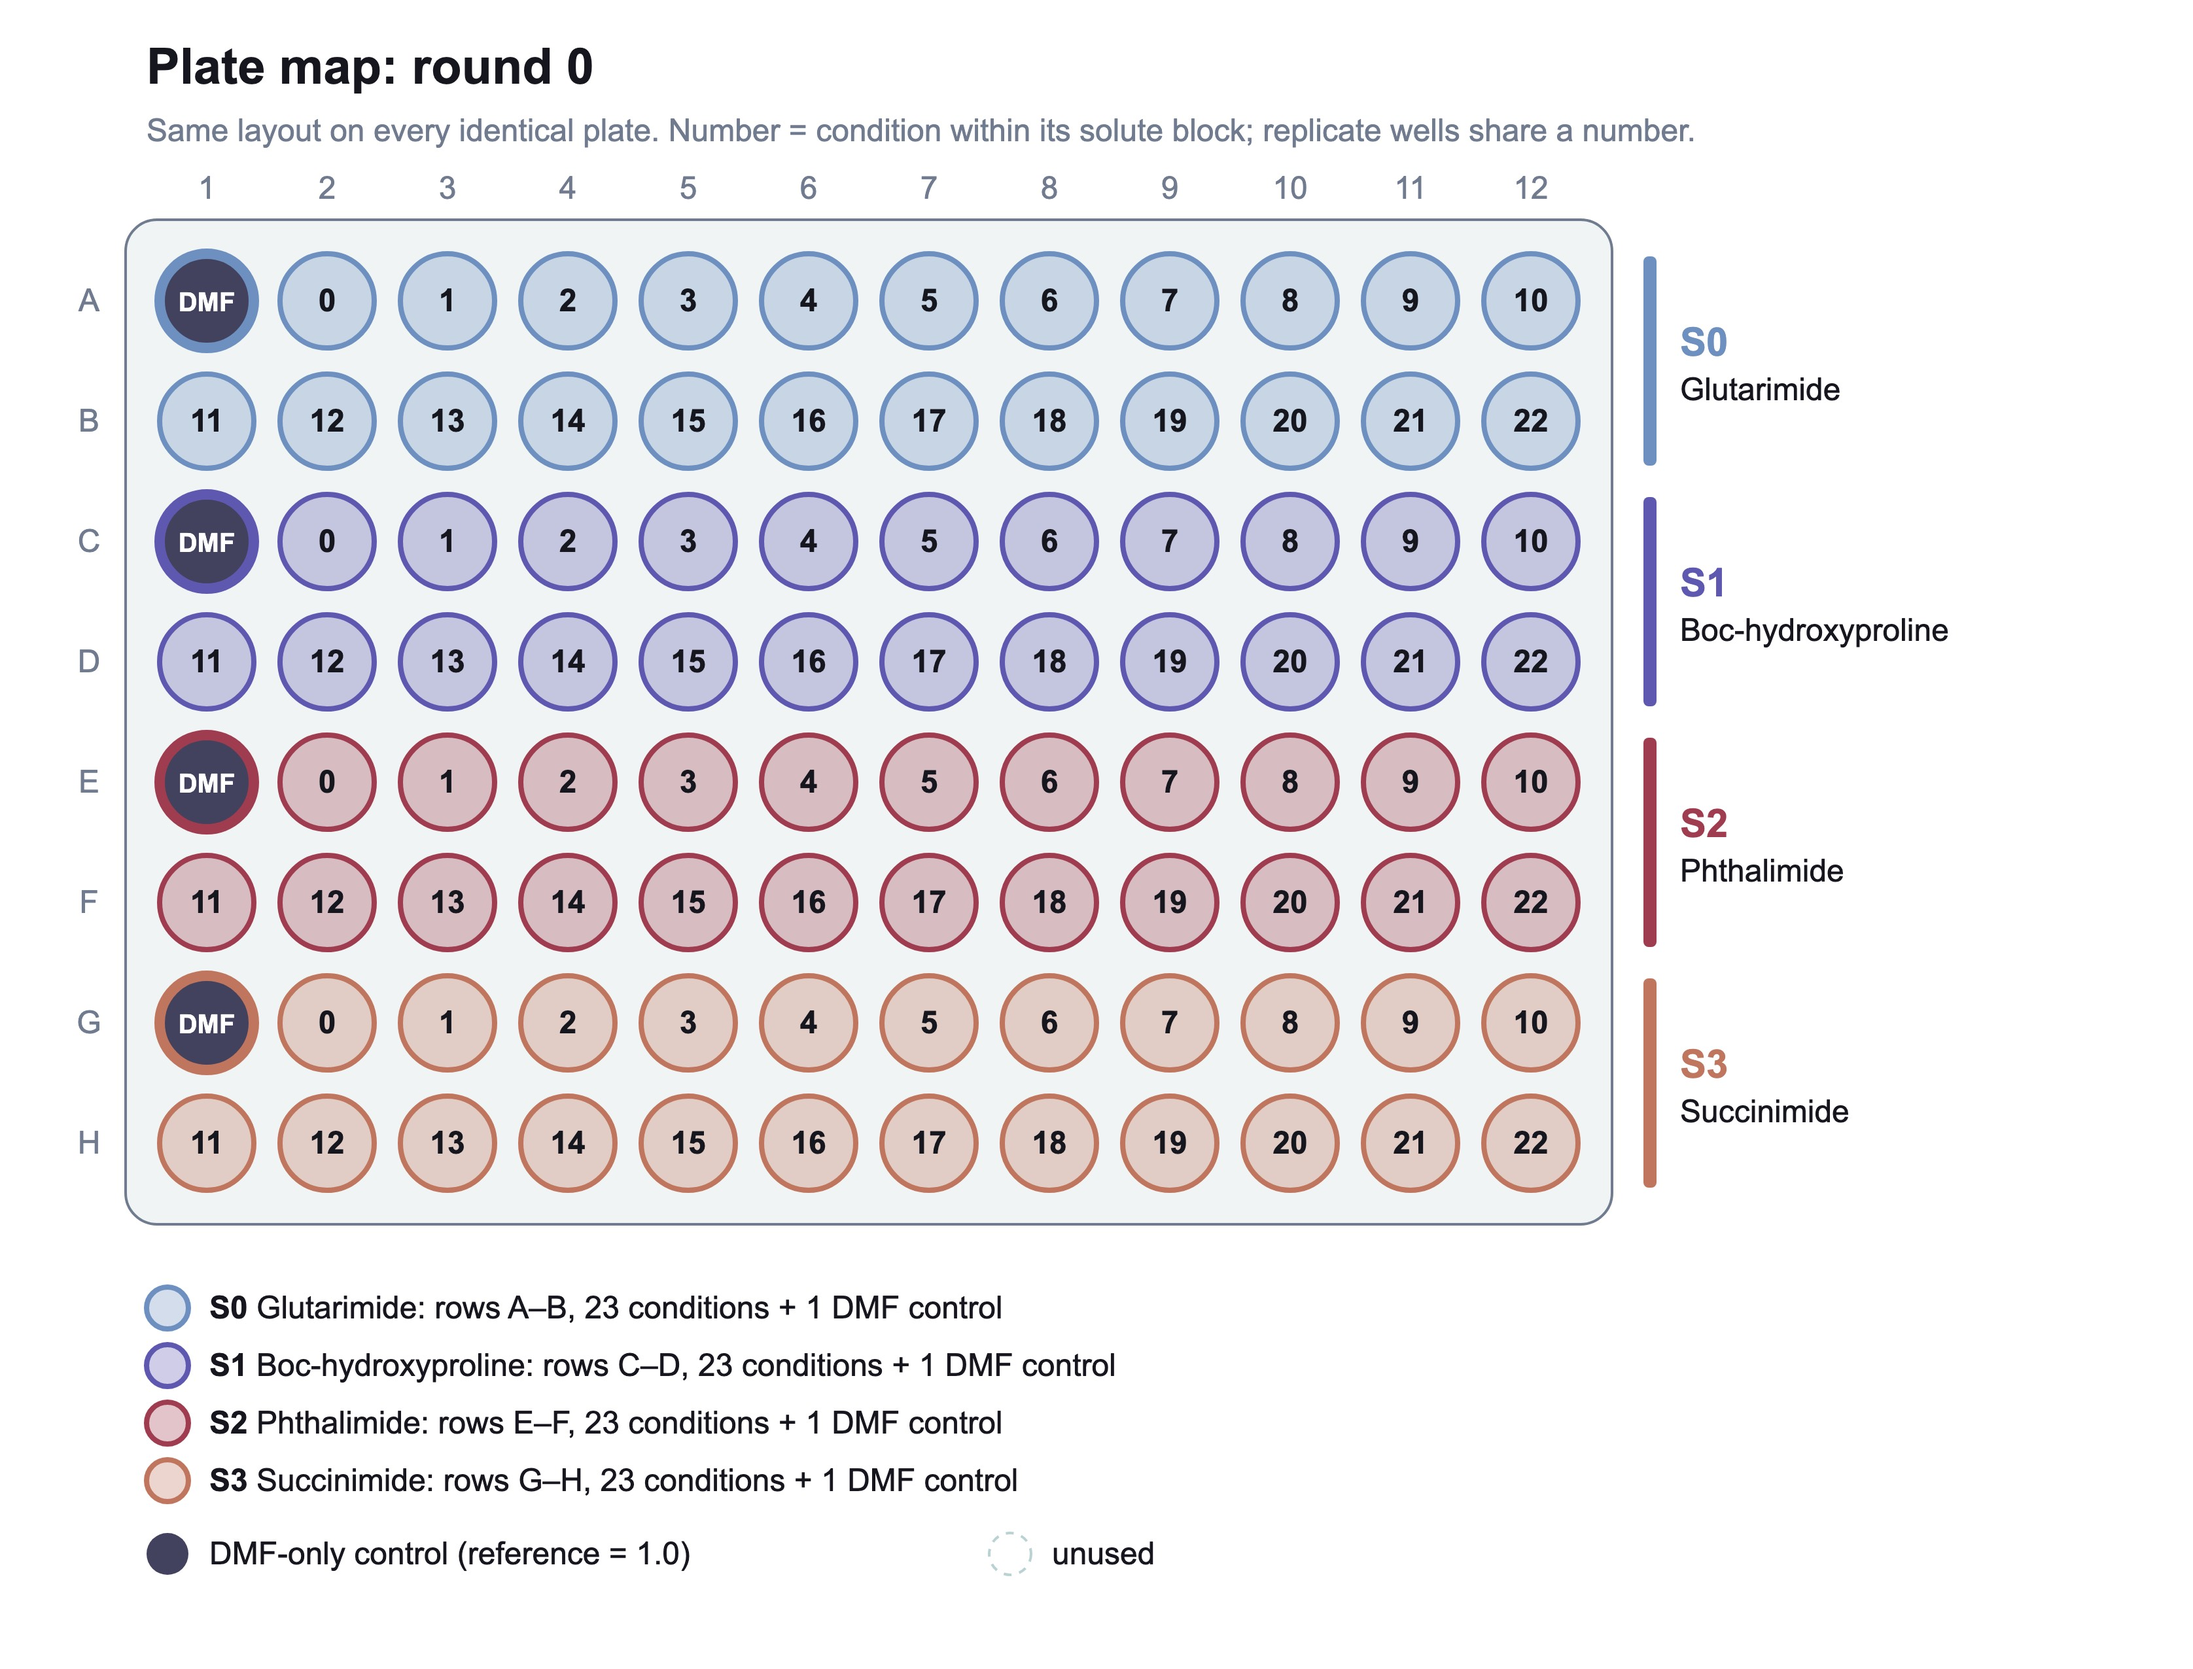
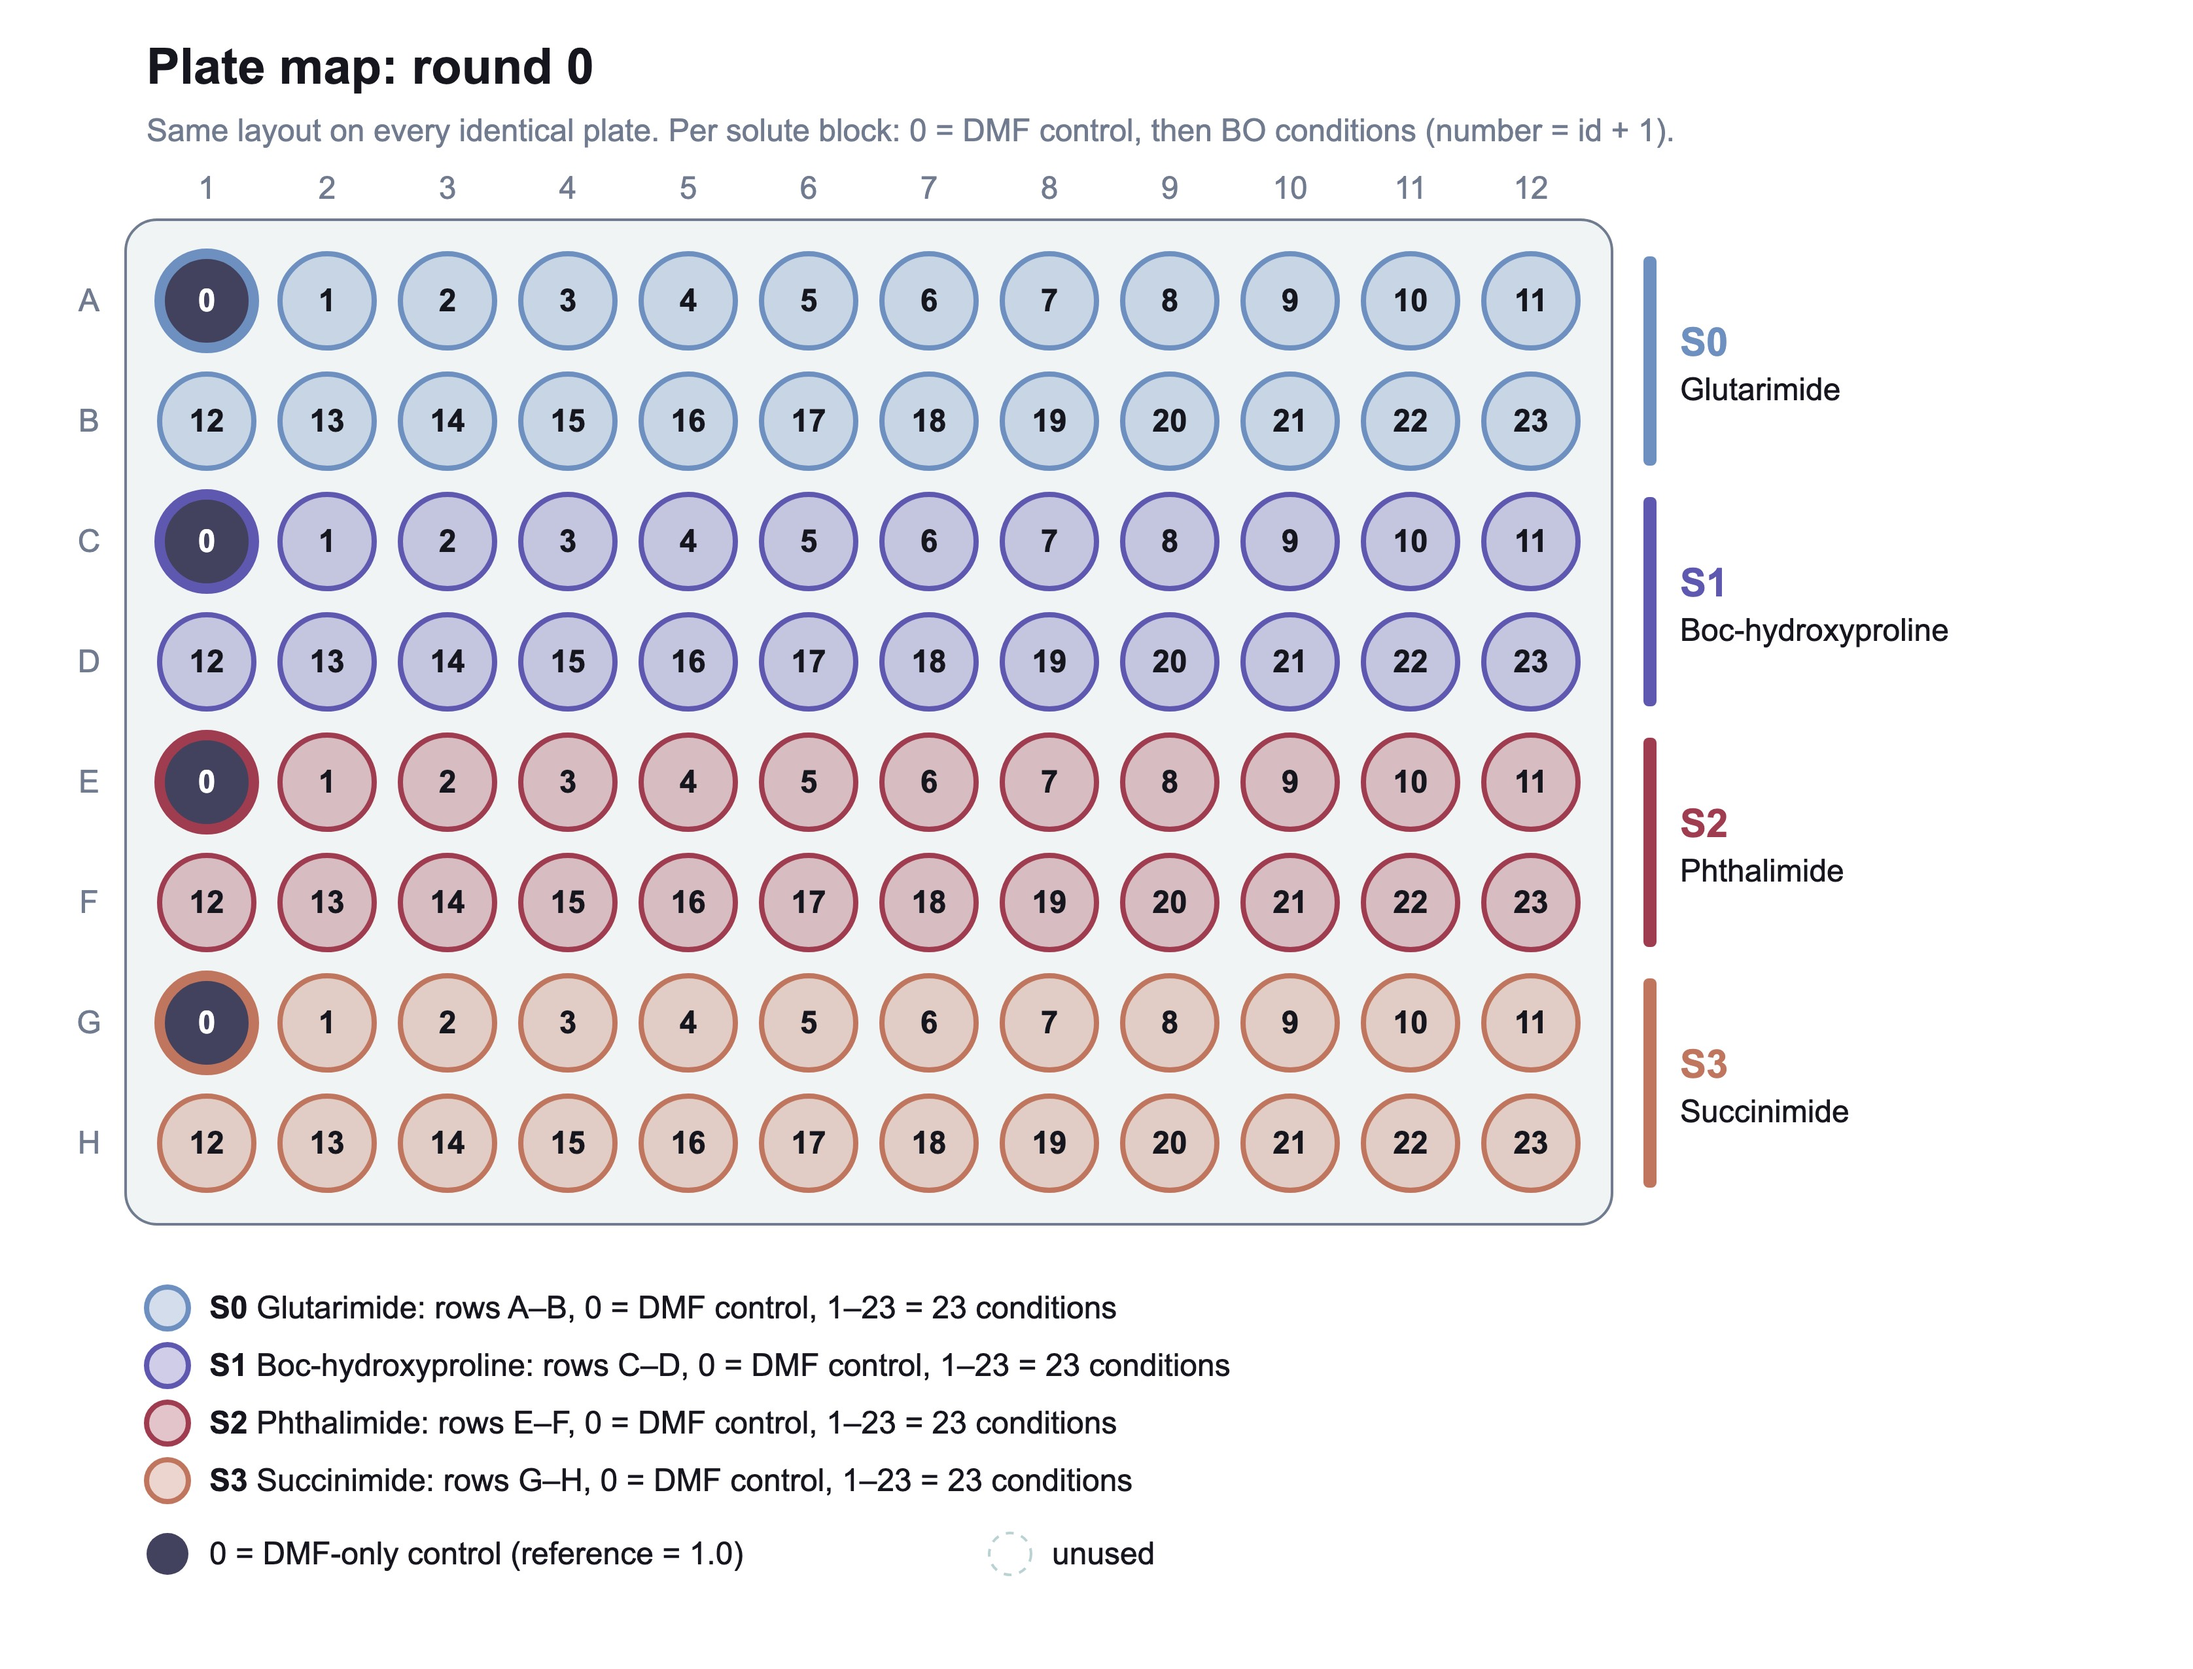
ENH: Plate map numbers each solute block 0-23 with the DMF control as 0

diff --git a/OT protocols/tools/draw_plate_map.py b/OT protocols/tools/draw_plate_map.py
@@ -33,19 +33,19 @@ def main():
     solutes = [s for s in cfg.SOLUTES if any(m["solute"] == s for m in pm)]
     tag = {s: f"S{i}" for i, s in enumerate(solutes)}
     color = {s: BLOCK_COLORS[i % len(BLOCK_COLORS)] for i, s in enumerate(solutes)}
-    cond_no = {}  # condition number within its solute, in plate order, from FIRST_CONDITION
+    cond_no = {}  # number within its solute block: controls = FIRST_CONDITION, conditions follow in plate order
     for m in pm:
         if m["role"] == "sample":
             key = (m["solute"], m["condition_id"])
-            cond_no.setdefault(key, cfg.FIRST_CONDITION + sum(k[0] == m["solute"] for k in cond_no))
+            cond_no.setdefault(key, cfg.FIRST_CONDITION + 1 + sum(k[0] == m["solute"] for k in cond_no))
 
     plate_w, plate_h = 12 * CELL, 8 * CELL
     W, H = X0 + plate_w + 230, Y0 + plate_h + 90 + 22 * len(solutes)
     out = [f'<svg xmlns="http://www.w3.org/2000/svg" viewBox="0 0 {W} {H}" width="{W}" height="{H}" font-family="Arial">',
            f'<rect width="{W}" height="{H}" fill="#ffffff"/>',
            svg_text(X0, 32, f"Plate map: round {pm[0]['round']}", 19, bold=True),
-           svg_text(X0, 54, "Same layout on every identical plate. Number = condition within its solute block; "
-                            "replicate wells share a number.", 12, MID),
+           svg_text(X0, 54, f"Same layout on every identical plate. Per solute block: {cfg.FIRST_CONDITION} = "
+                            f"{cfg.REFERENCE_SOLVENT} control, then BO conditions (number = id + 1).", 12, MID),
            f'<rect x="{X0 - 8}" y="{Y0 - 8}" width="{plate_w + 16}" height="{plate_h + 16}" rx="12" fill="{BG}" stroke="{MID}"/>']
     out += [svg_text(X0 + c * CELL + CELL / 2, Y0 - 16, c + 1, 12, MID, "middle") for c in range(12)]
     for r, row in enumerate(ROWS):
@@ -56,7 +56,7 @@ def main():
                 out.append(f'<circle cx="{cx}" cy="{cy}" r="18" fill="#ffffff" stroke="{LIGHT}" stroke-dasharray="3 3"/>')
             elif m["role"] == "control":
                 out.append(f'<circle cx="{cx}" cy="{cy}" r="18" fill="{DARK}" stroke="{color[m["solute"]]}" stroke-width="4"/>')
-                out.append(svg_text(cx, cy + 4, cfg.REFERENCE_SOLVENT, 10, "#ffffff", "middle", True))
+                out.append(svg_text(cx, cy + 4, cfg.FIRST_CONDITION, 12, "#ffffff", "middle", True))
             else:
                 col = color[m["solute"]]
                 out.append(f'<circle cx="{cx}" cy="{cy}" r="18" fill="{col}" fill-opacity="0.3" stroke="{col}" stroke-width="2"/>')
@@ -77,16 +77,16 @@ def main():
     for i, s in enumerate(solutes):
         wells = [m for m in pm if m["solute"] == s]
         n_cond = len({m["condition_id"] for m in wells if m["role"] == "sample"})
-        n_ctrl = sum(m["role"] == "control" for m in wells)
         y = ly + i * 22
         out.append(f'<circle cx="{X0 + 8}" cy="{y - 4}" r="8" fill="{color[s]}" fill-opacity="0.3" stroke="{color[s]}" stroke-width="2"/>')
         out.append(svg_text(X0 + 24, y, f"<tspan font-weight=\"bold\">{tag[s]}</tspan>  {s}: rows "
                                          f"{ROWS[min(ROWS.index(m['well'][0]) for m in wells)]}–"
                                          f"{ROWS[max(ROWS.index(m['well'][0]) for m in wells)]}, "
-                                         f"{n_cond} conditions + {n_ctrl} {cfg.REFERENCE_SOLVENT} control"))
+                                         f"{cfg.FIRST_CONDITION} = {cfg.REFERENCE_SOLVENT} control, "
+                                         f"{cfg.FIRST_CONDITION + 1}–{cfg.FIRST_CONDITION + n_cond} = {n_cond} conditions"))
     y = ly + len(solutes) * 22 + 6
     out.append(f'<circle cx="{X0 + 8}" cy="{y - 4}" r="8" fill="{DARK}"/>')
-    out.append(svg_text(X0 + 24, y, f"{cfg.REFERENCE_SOLVENT}-only control (reference = 1.0)"))
+    out.append(svg_text(X0 + 24, y, f"{cfg.FIRST_CONDITION} = {cfg.REFERENCE_SOLVENT}-only control (reference = 1.0)"))
     out.append(f'<circle cx="{X0 + 330}" cy="{y - 4}" r="8" fill="#ffffff" stroke="{LIGHT}" stroke-dasharray="3 3"/>')
     out.append(svg_text(X0 + 346, y, "unused"))
     out.append("</svg>")
